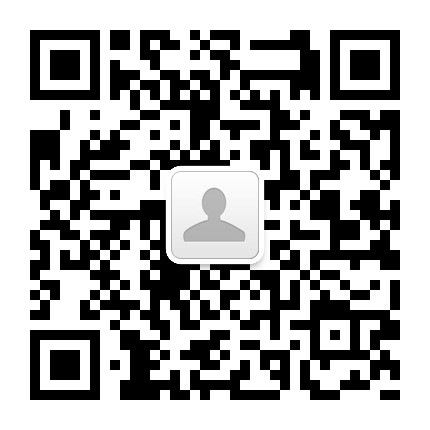
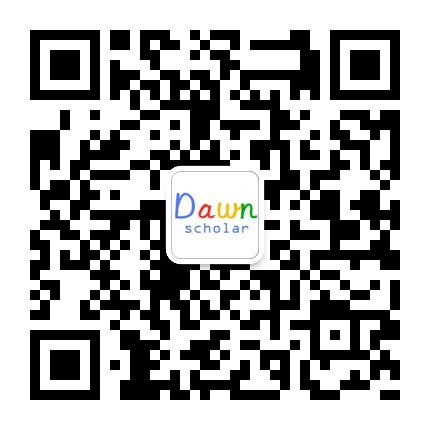
add scholar_url

Changed region(s): [[0.393, 0.4233, 0.6047, 0.6047]]

diff --git a/index2.php b/index2.php
@@ -1,0 +1,175 @@
+<!DOCTYPE html>
+<html>
+<head>
+<title>Dawn scholar v0.3.0</title>
+<meta http-equiv="X-UA-Compatible" content="IE=edge,chrome=1">
+<meta http-equiv="content-type" content="text/html;charset=utf-8">
+<!-- Bootstrap -->
+    <link href="//cdn.bootcss.com/bootstrap/3.3.5/css/bootstrap.min.css" rel="stylesheet">
+<style>
+body{padding:0; margin:0; font-family:"Microsoft YaHei";}
+div,input {vertical-align:middle}/*css里面文本框和按钮对不齐*/
+
+#myWrap{width:1000px; margin:35px auto;  }
+#mySearchLogo{
+	padding:5px;
+	margin:5px auto;
+	width:100%;
+	font-family:"Microsoft YaHei";
+}
+#mySearchResult{margin:0 30px;}
+#mySearchResult input{border:1px solid #0096ff; height:40px;}
+#mySearchResult input[type="text"]{width:70%; }
+#mySearchResult input[type="submit"]{width:100px;}
+
+#gs_nml{
+	display:none;
+}
+
+
+
+
+.card{
+	background: #0096ff;
+    width: 100px;
+    position: relative;
+    margin: 2em 2em;
+    padding: 15px;
+    box-shadow: 0px 3px rgba( 0, 0, 0, 0.1);
+    color: #E8E8E8;
+    font-size: 14px;
+    -moz-border-radius: 2px;
+    -webkit-border-radius: 2px;
+    border-radius: 2px;
+	
+
+}
+.card.announce {
+    position: absolute;
+    margin: 2em 5px;
+    right: 0;
+    top: 0;
+}
+.card a{
+	color:#fff;
+}
+.light{
+	background-color: #f8f8f8;
+	color: #222;
+    border: 1px solid #c6c6c6;
+}
+
+#erWeiMa{
+	position:absolute;
+	top:30px;
+	padding:5px;
+}
+#erWeiMa img{width:120px; }
+
+
+</style>
+</head>
+<body>
+
+
+
+<div id="url_info" class='card announce'>
+	<b>Basic版</b><h2>永久免费</h2>
+	<br><a href="scholar/help.php" target="_blank" title="帮助">帮助文档</a>.
+</div>
+
+<div id='erWeiMa'>
+	<img src='scholar/images/fxxsEWM.jpg' /><br>
+	<b>扫一扫关注微信号</b>
+</div>
+
+
+
+
+
+
+
+
+<div id=myWrap>
+<form method="POST" target="" id=mySearchResult>
+	<b id="mySearchLogo">
+	Dawn Search:
+	</b>
+	<input type="text" name="keyword" value="<?php 
+	if(isset($_POST['keyword'])){
+		echo $_POST['keyword'];
+	}
+	?>">
+	<input type="submit" name="submit" value="Scholar">
+</form>
+
+
+<div class="container" style='margin:15px 0;'>
+
+
+	<div class="jumbotron">
+		<h1>当前为Basic版</h1>
+		<p>Basic版不能检索多个关键词, 不能翻页, 不能选择年份.</p>
+		<p>   
+		更好体验请 <a href='scholar/index.php' type="button" class="btn btn-lg btn-danger">登录Pro版</a> scholar search.</p>
+	</div>
+
+ 
+
+	
+
+<?php
+require 'scholar/common/function.php';
+define('DEBUG_MODE',true);
+
+//$url="http://www.google.com.hk/search?ie=UTF-8&q=武汉";
+if(isset($_POST['keyword'])){
+	$keyword=$_POST['keyword'];
+		 myLog('[Basic]'.$keyword);//登陆日志
+	$url="http://scholar.google.com.cn/scholar?ie=UTF-8&q=$keyword";
+}else{
+	$url="http://scholar.google.com.cn/";
+		myLog('[Basic] visit');//登陆日志
+};
+
+if(isset($_POST['keyword'])){
+	$keyword=$_POST['keyword']; 
+	if(trim($keyword)==""){
+		die("Please input the keyword");
+	}
+}else{
+	die("Please input the keyword");
+}
+
+
+	$handle = fopen($url, "rb");
+
+    $contents = '';
+	if(!$handle){
+		die("文件打开失败！");
+	}
+     while (!feof($handle)) { 
+         $contents .= fread($handle, 8192); 
+     } 
+	 echo $contents;
+     fclose($handle); 
+?>
+
+</div>
+
+<style>
+#gs_hdr,#gs_ab_rt,#gs_gb,#gs_lnv,#gs_n,#gs_ftr,
+#gs_hp_main #gs_hp_tsi {display:none;}
+
+#gs_ccl { margin-left: 10px;}
+</style>
+
+
+<div style='text-align:center;' role="contentinfo">
+	<script type="text/javascript">var cnzz_protocol = (("https:" == document.location.protocol) ? " https://" : " http://");document.write(unescape("%3Cspan id='cnzz_stat_icon_1256189537'%3E%3C/span%3E%3Cscript src='" + cnzz_protocol + "s95.cnzz.com/stat.php%3Fid%3D1256189537%26online%3D1%26show%3Dline' type='text/javascript'%3E%3C/script%3E"));</script> | 
+
+	<a href="help.php">About Dawn Scholar</a> | 
+	<a href="../index.php">Home page</a> 
+</div>
+</div>
+</body>

diff --git a/scholar_url.php b/scholar_url.php
@@ -1,0 +1,82 @@
+<?php
+header("Content-type: text/html; charset=utf-8"); 
+?>
+
+<head>
+<style>
+#myWrap{width:1000px; margin:35px auto;  }
+#mySearchLogo{
+	padding:5px;
+	margin:5px auto;
+	width:100%;
+	font-family:"Microsoft YaHei";
+}
+#mySearchResult input[type="text"]{width:60%; border:1px solid #0096ff;
+	height:40px;
+}
+#mySearchResult input[type="submit"]{width:100px; border:1px solid #0096ff;
+	height:40px;
+}
+
+#gs_nml{
+	display:none;
+}
+</style>
+</head>
+<body>
+<div id=myWrap>
+<form method="POST" target="" id=mySearchResult>
+<b id="mySearchLogo">
+Dawn Search(URL):
+</b>
+<input type="text" name="keyword" value="<?php 
+if(isset($_POST['keyword'])){
+	echo $_POST['keyword'];
+}
+?>">
+<input type="submit" name="submit" value="Search">
+<input type="submit" name="submit" value="Scholar">
+</form>
+
+
+
+<?php
+/*/$url="http://www.google.com.hk/search?ie=UTF-8&q=武汉";
+if(isset($_POST['keyword'])){
+	$keyword=$_POST['keyword'];
+	$btn=$_POST['submit'];
+	if('Scholar'==$btn){
+		//$url="http://scholar.google.com/search?ie=UTF-8&q=$keyword";
+		//$url="http://scholar.google.com.cn/scholar?q=%E7%BB%9F%E8%AE%A1";
+		$url="http://scholar.google.com.cn/scholar?ie=UTF-8&q=$keyword";
+	}else{
+		//$url="http://www.baidu.com/s?ie=UTF-8&wd=$keyword";
+		$url="http://www.google.com/search?ie=UTF-8&q=$keyword";
+	}
+}else{
+	$url="http://scholar.google.com.cn/";
+};
+*/
+if(isset($_POST['keyword'])){
+	$url=$_POST['keyword'];
+	if(trim($url)==""){
+		die("Pls input the URL");
+	}
+}else{
+	die("Pls input the URL");
+}
+	$handle = fopen($url, "rb");
+
+    $contents = '';
+	if(!$handle){
+		die("文件打开失败！");
+	}
+     while (!feof($handle)) { 
+         $contents .= fread($handle, 8192); 
+     } 
+	 echo $contents;
+     fclose($handle); 
+?>
+
+</div>
+</body>
